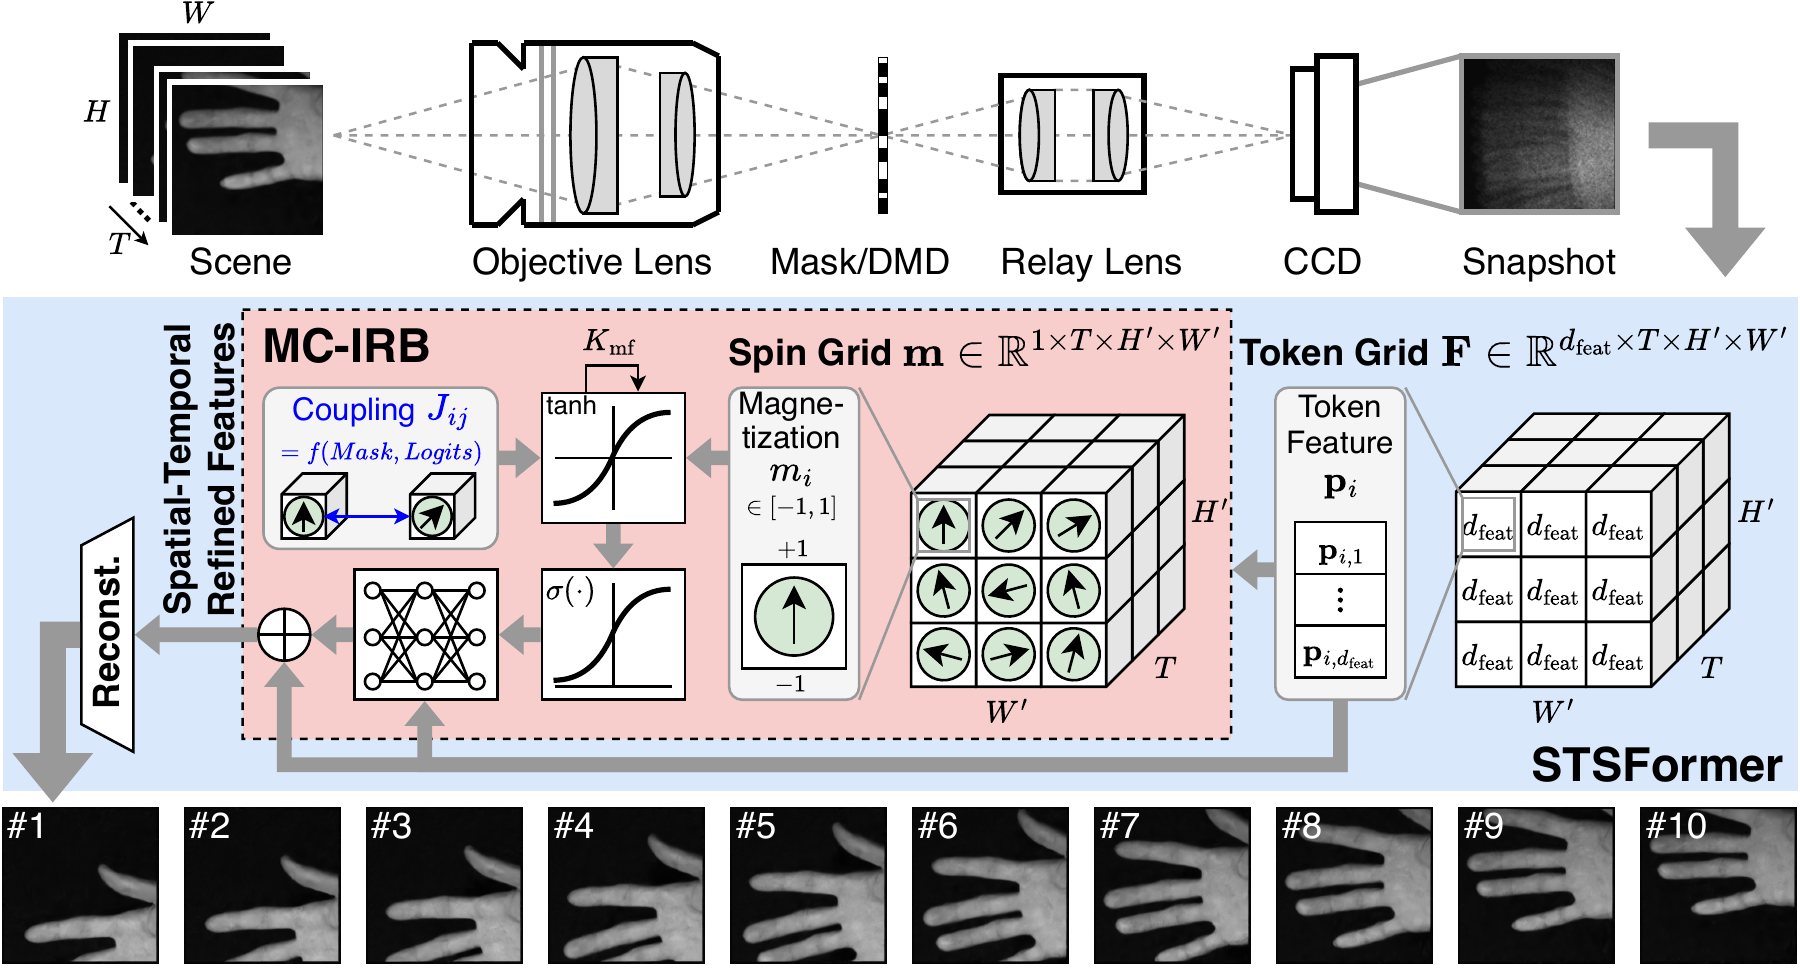
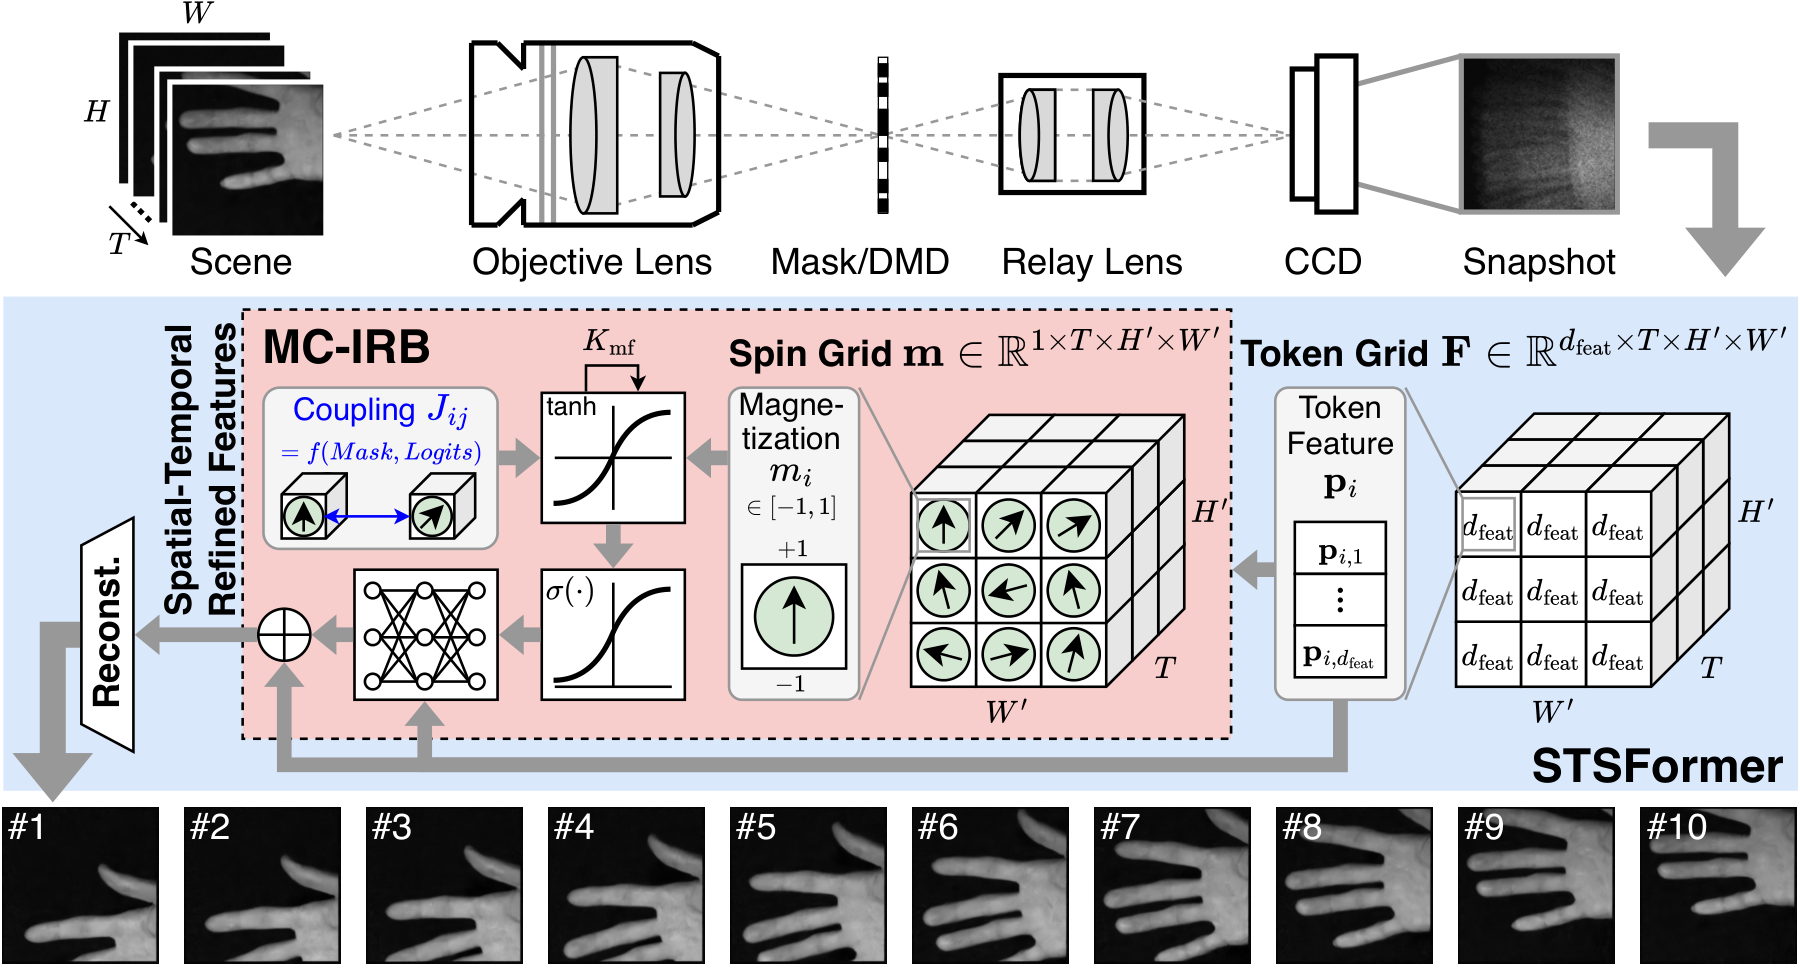
Use FP32 eager real-benchmark reconstructions

diff --git a/masks/README.md b/masks/README.md
@@ -61,12 +61,12 @@ python -m tools.evaluate_benchmarks --model spinsci \
 python -m tools.evaluate_benchmarks --model spinsci \
   --config configs/real_cr10.json --checkpoint checkpoints/spinsci_real_cr10.pth \
   --real --channels 1 --data-root /path/to/real_cr10 --mask masks/real_mask.mat \
-  --frames 10 --layout gray --precision bf16 --output outputs/real_cr10
+  --frames 10 --layout gray --precision fp32 --output outputs/real_cr10
 
 python -m tools.evaluate_benchmarks --model spinsci \
   --config configs/real_cr50.json --checkpoint checkpoints/spinsci_real_cr50.pth \
   --real --channels 1 --data-root /path/to/real_cr50 --mask masks/real_mask.mat \
-  --frames 50 --layout gray --precision bf16 --output outputs/real_cr50
+  --frames 50 --layout gray --precision fp32 --output outputs/real_cr50
 ```
 
 The real-data commands apply the evaluator's `meas / 255 * (T / 2)` convention.

diff --git a/README.md b/README.md
@@ -84,7 +84,7 @@ The [mask guide](masks/README.md) provides complete commands for every benchmark
 
 ## <a name="inference"></a> 🔧 Inference
 
-Reconstruct real CR10 measurements with the released real-data checkpoint:
+Reconstruct real CR10 measurements in FP32 eager mode with the released real-data checkpoint:
 
 ```bash
 export CUDA_VISIBLE_DEVICES=0
@@ -92,7 +92,7 @@ export CUDA_VISIBLE_DEVICES=0
 python -m tools.evaluate_benchmarks --model spinsci \
   --config configs/real_cr10.json --checkpoint checkpoints/spinsci_real_cr10.pth \
   --real --channels 1 --data-root /path/to/real_cr10 --mask masks/real_mask.mat \
-  --frames 10 --layout gray --precision bf16 --save-raw \
+  --frames 10 --layout gray --precision fp32 --save-raw \
   --output outputs/real_cr10
 ```
 

diff --git a/docs/reproduction.md b/docs/reproduction.md
@@ -128,7 +128,7 @@ Metrics use unclipped, unrounded values. Display PNGs use a fixed intensity
 scale: `round(clip(prediction, 0, 1) * 255)`.
 
 For real SpinSCI frame exports, select the real configuration and checkpoint,
-then pass `--real --channels 1 --frames 10 --layout gray --precision bf16`
+then pass `--real --channels 1 --frames 10 --layout gray --precision fp32`
 (or the CR50 configuration, checkpoint, and `--frames 50`). Both use
 `--mask masks/real_mask.mat`; the evaluator selects the first 10 or all 50 mask
 frames and applies `meas / 255 * (T / 2)` automatically. Real-data
